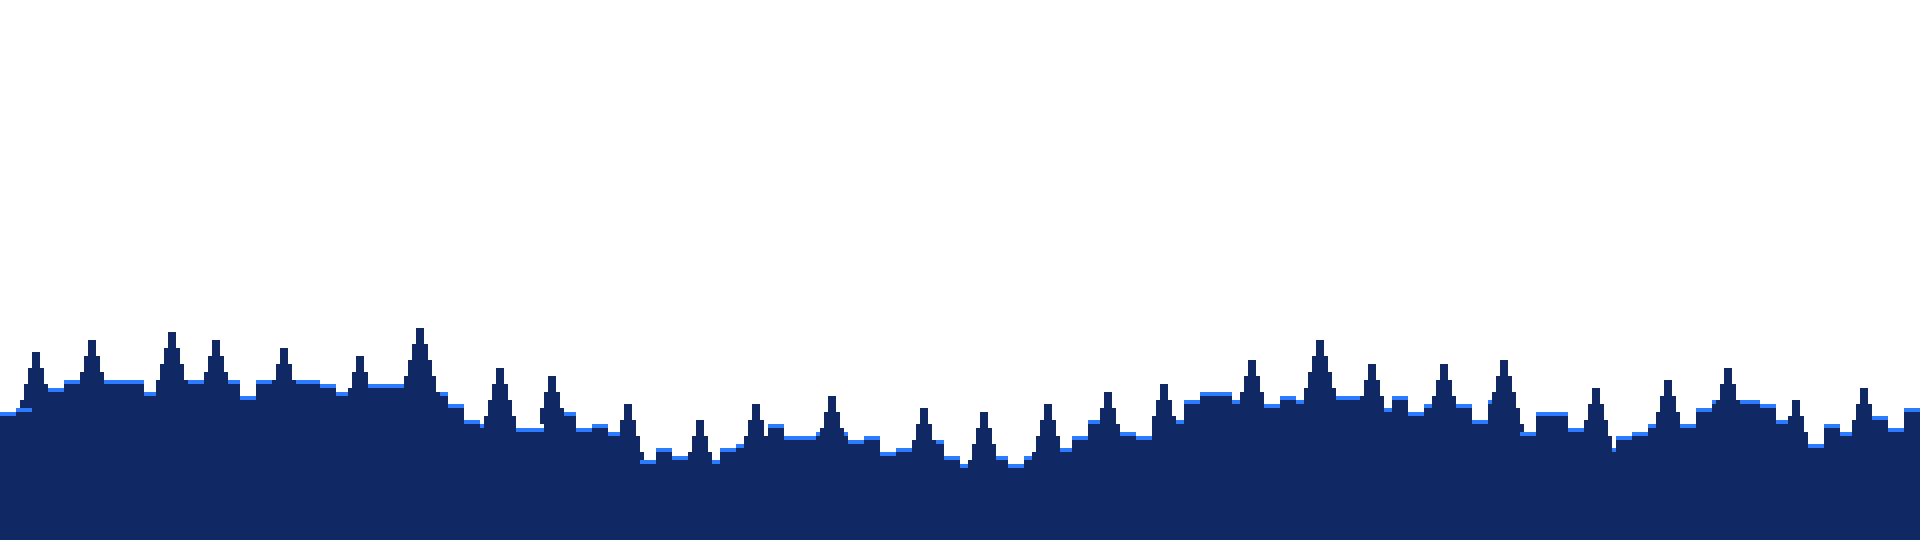
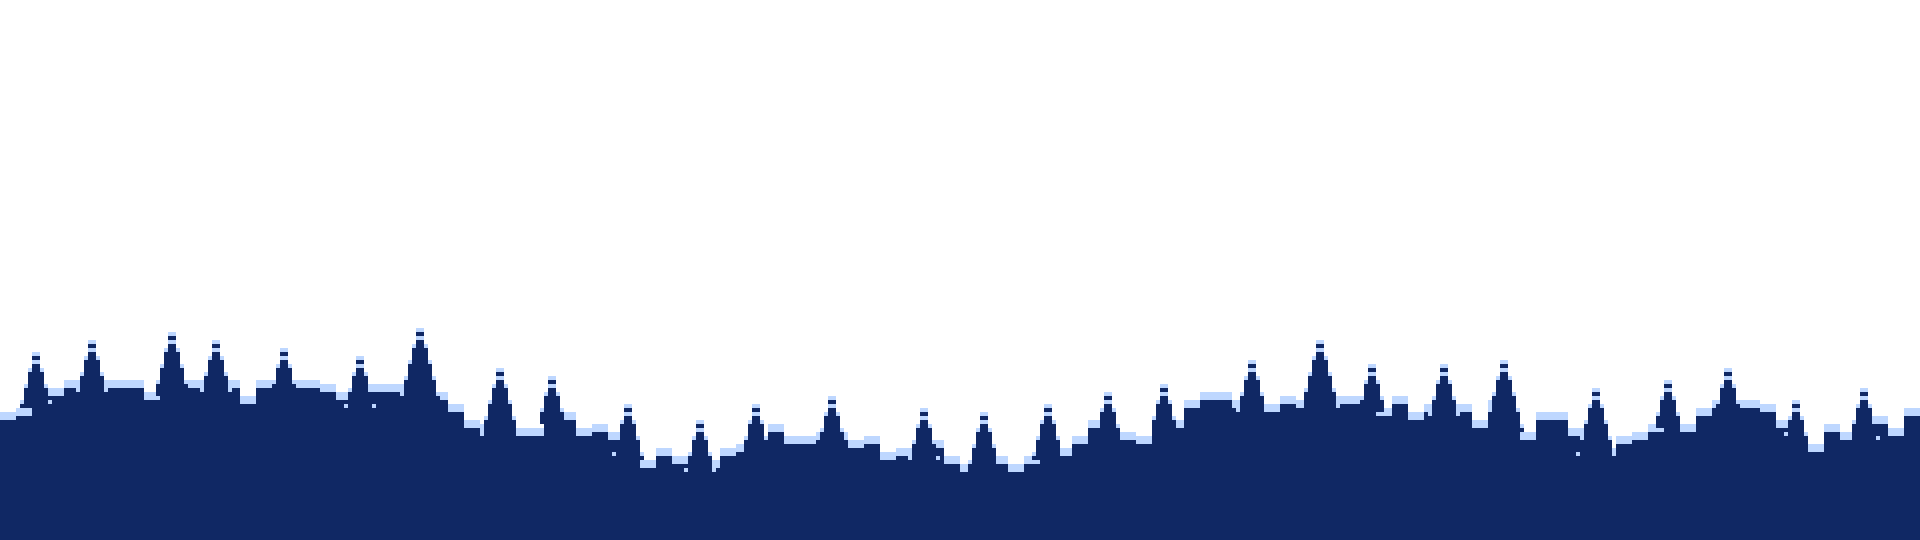
Aurores boréales et neige sur le fond animé
Claude-Session: https://claude.ai/code/session_01SgvXTeFSeBGZYoAzz7x8Tc

diff --git a/MainWindow.xaml b/MainWindow.xaml
@@ -122,6 +122,19 @@
                                     TileMode="Tile" ViewportUnits="Absolute" Viewport="0,0,1920,540" Stretch="Fill"/>
                     </Rectangle.Fill>
                 </Rectangle>
+                <!-- Aurores boréales -->
+                <Rectangle x:Name="Aurora2Rect" Height="540" VerticalAlignment="Top" Opacity="0.8">
+                    <Rectangle.Fill>
+                        <ImageBrush x:Name="Aurora2Brush" ImageSource="pack://application:,,,/Assets/aurora2.png"
+                                    TileMode="Tile" ViewportUnits="Absolute" Viewport="0,0,1920,540" Stretch="Fill"/>
+                    </Rectangle.Fill>
+                </Rectangle>
+                <Rectangle x:Name="Aurora1Rect" Height="540" VerticalAlignment="Top">
+                    <Rectangle.Fill>
+                        <ImageBrush x:Name="Aurora1Brush" ImageSource="pack://application:,,,/Assets/aurora1.png"
+                                    TileMode="Tile" ViewportUnits="Absolute" Viewport="0,0,1920,540" Stretch="Fill"/>
+                    </Rectangle.Fill>
+                </Rectangle>
                 <Image x:Name="Moon" Source="pack://application:,,,/Assets/moon.png" Width="200" Height="200"
                        HorizontalAlignment="Right" VerticalAlignment="Top" Margin="0,30,120,0"/>
                 <Rectangle Height="540" VerticalAlignment="Bottom">
@@ -142,13 +155,13 @@
                                     TileMode="Tile" ViewportUnits="Absolute" Viewport="0,0,1920,540" Stretch="Fill"/>
                     </Rectangle.Fill>
                 </Rectangle>
-                <Canvas x:Name="Particles"/>
                 <Rectangle Height="540" VerticalAlignment="Bottom">
                     <Rectangle.Fill>
                         <ImageBrush x:Name="Layer4Brush" ImageSource="pack://application:,,,/Assets/layer4.png"
                                     TileMode="Tile" ViewportUnits="Absolute" Viewport="0,0,1920,540" Stretch="Fill"/>
                     </Rectangle.Fill>
                 </Rectangle>
+                <Canvas x:Name="Particles"/>
                 <!-- Assombrit le centre pour que le texte reste lisible -->
                 <Rectangle>
                     <Rectangle.Fill>

diff --git a/MainWindow.xaml.cs b/MainWindow.xaml.cs
@@ -136,6 +136,20 @@ namespace ForpakLauncher
             Scroll(Layer3Brush, 90);
             Scroll(Layer4Brush, 50);
 
+            // Aurores : elles ondulent dans des sens opposés et "respirent"
+            Scroll(Aurora1Brush, 260);
+            Scroll(Aurora2Brush, 380, reverse: true);
+            Aurora1Rect.BeginAnimation(OpacityProperty, Slow(new DoubleAnimation(0.55, 1, TimeSpan.FromSeconds(4.5))
+            {
+                AutoReverse = true, RepeatBehavior = RepeatBehavior.Forever,
+                EasingFunction = new SineEase { EasingMode = EasingMode.EaseInOut }
+            }));
+            Aurora2Rect.BeginAnimation(OpacityProperty, Slow(new DoubleAnimation(0.9, 0.35, TimeSpan.FromSeconds(6.5))
+            {
+                AutoReverse = true, RepeatBehavior = RepeatBehavior.Forever,
+                EasingFunction = new SineEase { EasingMode = EasingMode.EaseInOut }
+            }));
+
             // Étoiles qui scintillent
             StarsRect.BeginAnimation(OpacityProperty, Slow(new DoubleAnimation(0.55, 1, TimeSpan.FromSeconds(2.6))
             { AutoReverse = true, RepeatBehavior = RepeatBehavior.Forever }));
@@ -147,27 +161,37 @@ namespace ForpakLauncher
                 EasingFunction = new SineEase { EasingMode = EasingMode.EaseInOut }
             }));
 
-            // Particules bleues qui montent
+            // Neige (pixel art) : les gros flocons tombent plus vite, comme s'ils étaient plus proches
             Particles.Children.Clear();
             double w = Math.Max(800, ActualWidth), h = Math.Max(500, ActualHeight);
-            for (int i = 0; i < 26; i++)
+            for (int i = 0; i < 70; i++)
             {
-                double size = _rng.Next(2, 5);
-                var r = new System.Windows.Shapes.Rectangle
+                int size = _rng.Next(10) < 6 ? 2 : _rng.Next(10) < 7 ? 3 : 4;
+                var flake = new System.Windows.Shapes.Rectangle
                 {
                     Width = size, Height = size,
-                    Fill = new SolidColorBrush(i % 3 == 0 ? Color.FromRgb(120, 200, 255) : Color.FromRgb(45, 123, 255)),
-                    Opacity = 0.25 + _rng.NextDouble() * 0.5
+                    Fill = new SolidColorBrush(Color.FromRgb(235, 243, 255)),
+                    Opacity = 0.35 + size * 0.15 + _rng.NextDouble() * 0.15
                 };
-                Canvas.SetLeft(r, _rng.NextDouble() * w);
-                Particles.Children.Add(r);
-                var dur = TimeSpan.FromSeconds(14 + _rng.NextDouble() * 16);
-                var up = Slow(new DoubleAnimation(h + 10, -20, dur)
+                double x = _rng.NextDouble() * w;
+                Canvas.SetLeft(flake, x);
+                Particles.Children.Add(flake);
+
+                var fall = TimeSpan.FromSeconds((size == 2 ? 22 : size == 3 ? 15 : 10) + _rng.NextDouble() * 6);
+                flake.BeginAnimation(Canvas.TopProperty, Slow(new DoubleAnimation(-10, h + 10, fall)
                 {
                     RepeatBehavior = RepeatBehavior.Forever,
-                    BeginTime = TimeSpan.FromSeconds(-_rng.NextDouble() * dur.TotalSeconds)
-                });
-                r.BeginAnimation(Canvas.TopProperty, up);
+                    BeginTime = TimeSpan.FromSeconds(-_rng.NextDouble() * fall.TotalSeconds)
+                }));
+                // Balancement gauche-droite
+                var sway = TimeSpan.FromSeconds(2.5 + _rng.NextDouble() * 3);
+                double amp = 6 + _rng.NextDouble() * 18;
+                flake.BeginAnimation(Canvas.LeftProperty, Slow(new DoubleAnimation(x - amp, x + amp, sway)
+                {
+                    AutoReverse = true, RepeatBehavior = RepeatBehavior.Forever,
+                    BeginTime = TimeSpan.FromSeconds(-_rng.NextDouble() * sway.TotalSeconds),
+                    EasingFunction = new SineEase { EasingMode = EasingMode.EaseInOut }
+                }));
             }
         }
 
@@ -175,18 +199,25 @@ namespace ForpakLauncher
         {
             if (!_bgRunning) return;
             _bgRunning = false;
-            foreach (var b in new[] { StarsBrush, Layer1Brush, Layer2Brush, Layer3Brush, Layer4Brush })
+            foreach (var b in new[] { StarsBrush, Aurora1Brush, Aurora2Brush, Layer1Brush, Layer2Brush, Layer3Brush, Layer4Brush })
                 b.BeginAnimation(TileBrush.ViewportProperty, null);
+            Aurora1Rect.BeginAnimation(OpacityProperty, null);
+            Aurora2Rect.BeginAnimation(OpacityProperty, null);
             StarsRect.BeginAnimation(OpacityProperty, null);
             HeroFloat.BeginAnimation(TranslateTransform.YProperty, null);
-            foreach (UIElement el in Particles.Children) el.BeginAnimation(Canvas.TopProperty, null);
+            foreach (UIElement el in Particles.Children)
+            {
+                el.BeginAnimation(Canvas.TopProperty, null);
+                el.BeginAnimation(Canvas.LeftProperty, null);
+            }
             Particles.Children.Clear();
         }
 
-        private static void Scroll(ImageBrush brush, double seconds)
+        private static void Scroll(ImageBrush brush, double seconds, bool reverse = false)
         {
-            var anim = new RectAnimation(new Rect(0, 0, 1920, 540), new Rect(-1920, 0, 1920, 540),
-                TimeSpan.FromSeconds(seconds)) { RepeatBehavior = RepeatBehavior.Forever };
+            var from = new Rect(reverse ? -1920 : 0, 0, 1920, 540);
+            var to = new Rect(reverse ? 0 : -1920, 0, 1920, 540);
+            var anim = new RectAnimation(from, to, TimeSpan.FromSeconds(seconds)) { RepeatBehavior = RepeatBehavior.Forever };
             brush.BeginAnimation(TileBrush.ViewportProperty, Slow(anim));
         }
 

diff --git a/NOTES.md b/NOTES.md
@@ -1,1 +1,1 @@
-Forpak devient **Velox Client** : nouveau logo, barre latérale, lancement au centre et fond animé. Tes réglages, ton compte et tes mods sont gardés.
+Aurores boréales et neige sur le fond animé (un clin d'œil à Forpak Client), sapins enneigés. Le fond se met en pause pendant que tu joues.
